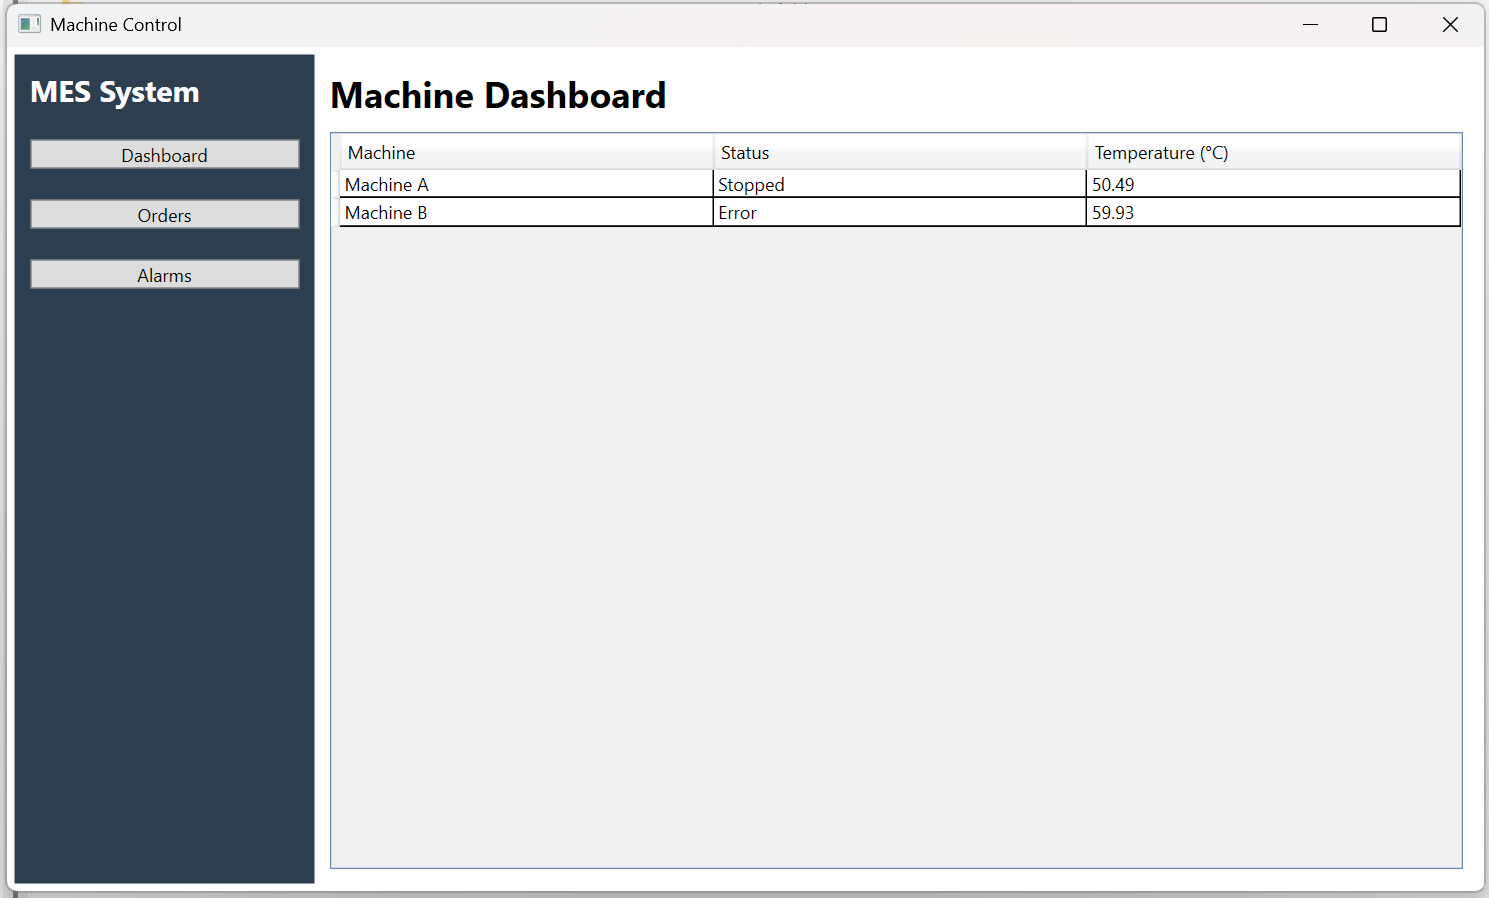
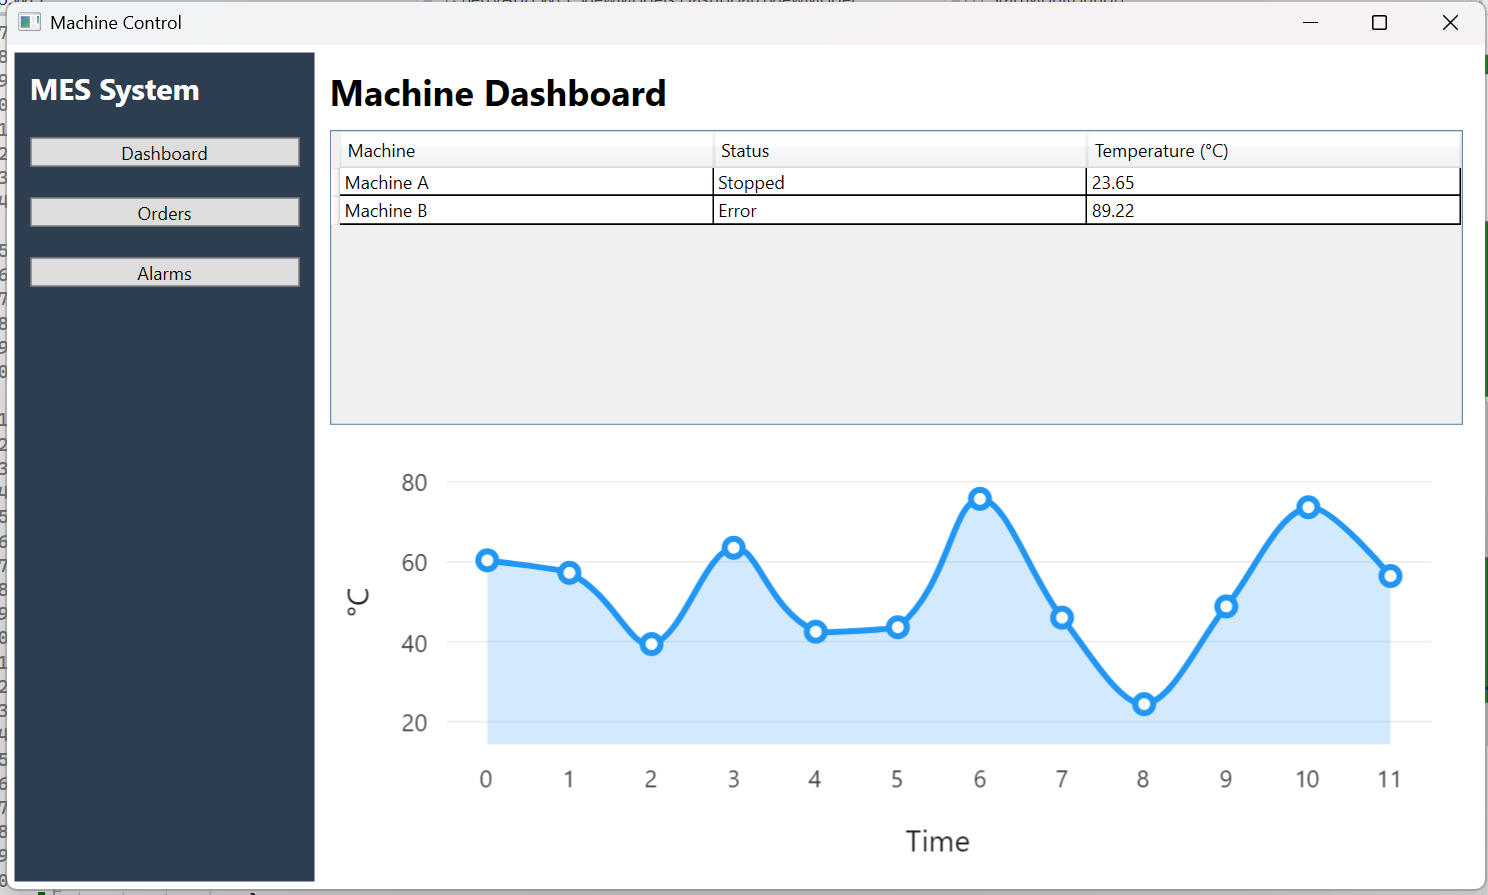
Add real-time chart to Dashboard page

diff --git a/BerryApp.WPF/Pages/DashboardView.xaml b/BerryApp.WPF/Pages/DashboardView.xaml
@@ -2,18 +2,21 @@
              xmlns="http://schemas.microsoft.com/winfx/2006/xaml/presentation"
              xmlns:x="http://schemas.microsoft.com/winfx/2006/xaml"
              xmlns:mc="http://schemas.openxmlformats.org/markup-compatibility/2006" 
-             xmlns:d="http://schemas.microsoft.com/expression/blend/2008" 
+             xmlns:d="http://schemas.microsoft.com/expression/blend/2008"  
+             xmlns:lvc="clr-namespace:LiveChartsCore.SkiaSharpView.WPF;assembly=LiveChartsCore.SkiaSharpView.WPF" 
              xmlns:local="clr-namespace:BerryApp.WPF.Pages"
              mc:Ignorable="d" 
              d:DesignHeight="450" d:DesignWidth="800">
     <Grid Margin="10">
         <Grid.RowDefinitions>
             <RowDefinition Height="Auto"></RowDefinition>
-            <RowDefinition></RowDefinition>
+            <RowDefinition Height="2*"></RowDefinition>
+            <RowDefinition Height="3*"></RowDefinition>
         </Grid.RowDefinitions>
 
         <TextBlock Text="Machine Dashboard" FontSize="24" FontWeight="Bold" Margin="0,0,0,10"></TextBlock>
 
+        <!-- Existing DataGrid -->
         <DataGrid Grid.Row="1" ItemsSource="{Binding Machines}" AutoGenerateColumns="False" IsReadOnly="True">
             <DataGrid.Columns>
                 <DataGridTextColumn Header="Machine" Binding="{Binding Name}" Width="*"></DataGridTextColumn>
@@ -24,5 +27,11 @@
                                     Width="*"/>
             </DataGrid.Columns>
         </DataGrid>
+        
+        <!-- Real-Time Chart -->
+        <lvc:CartesianChart Grid.Row="2"
+                        Series="{Binding TemperatureSeries}"
+                        XAxes="{Binding XAxes}"
+                        YAxes="{Binding YAxes}"/>
     </Grid>
 </UserControl>

diff --git a/BerryApp.WPF/ViewModels/DashboardViewModel.cs b/BerryApp.WPF/ViewModels/DashboardViewModel.cs
@@ -1,12 +1,17 @@
 using BerryApp.Domain.Entities;
 using BerryApp.Shared.Base;
 using BerryApp.Shared.Events;
+using LiveChartsCore.SkiaSharpView;
+using LiveChartsCore;
 using System;
 using System.Collections.Generic;
 using System.Collections.ObjectModel;
 using System.Linq;
 using System.Text;
 using System.Threading.Tasks;
+using Newtonsoft.Json.Linq;
+using LiveChartsCore.SkiaSharpView.Painting;
+using SkiaSharp;
 
 namespace BerryApp.WPF.ViewModels
 {
@@ -25,14 +30,59 @@ namespace BerryApp.WPF.ViewModels
             Machines.Add(new Machine { Id = Guid.NewGuid(), Name = "Machine A", Status = "Running" });
             Machines.Add(new Machine { Id = Guid.NewGuid(), Name = "Machine B", Status = "Stopped" });
 
-            StartMonitoring();
-        }
+            var seriesList = new List<ISeries>();
 
+            foreach (var machine in Machines)
+            {
+                var values = new List<double>();
+                _machineSeriesData[machine.Name] = values;
+
+                seriesList.Add(new LineSeries<double>
+                {
+                    Name = machine.Name,
+                    Values = values
+                });
+            }
+
+            TemperatureSeries = seriesList.ToArray();
+
+            XAxes = new Axis[]
+            {
+                new Axis
+                {
+                    Name = "Time"
+                }
+            };
+
+            YAxes = new Axis[]
+            {
+                new Axis
+                {
+                    Name = "°C",
+                    MinLimit = 0,
+                    MaxLimit = 100
+                }
+            };
+
+            StartMonitoring();
+
+        }
+        public ISeries[] TemperatureSeries { get; set; }
+        public Axis[] XAxes { get; set; }
+        public Axis[] YAxes { get; set; }
+
+        //private readonly List<double> _tempValues = new();
+        private readonly Dictionary<string, List<double>> _machineSeriesData = new Dictionary<string, List<double>>();
+        private int _timeIndex = 0;
+
+        private const double Threshold = 80;
         public async void StartMonitoring()
         {
             while (true)
             {
                 await Task.Delay(3000); // Simulate periodic updates
+
+                var seriesList = new List<ISeries>();
 
                 // Simulate machine status updates
                 foreach (var machine in Machines)
@@ -45,7 +95,47 @@ namespace BerryApp.WPF.ViewModels
                         // Publish an alert event if temperature exceeds threshold
                         _eventBus.Publish(new AlarmEvent { Message = $"{machine.Name} temperature is too high: {machine.Temperature:F1} °C" });
                     }
+
+                    // 🔥 update each machine series
+                    var list = _machineSeriesData[machine.Name];
+                    list.Add(machine.Temperature);
+
+                    if (list.Count > 20)
+                        list.RemoveAt(0);
+                     
+
+                    seriesList.Add(new LineSeries<double>
+                    {
+                        Name = machine.Name,
+                        Values = list,
+                        Stroke = machine.Temperature > Threshold ? new SolidColorPaint(SKColors.Red, 3) : new SolidColorPaint(SKColors.Green, 2), // 🔥 Highlight logic // new SolidColorPaint(SKColors.Red),
+                        GeometrySize = 1
+                    });
                 }
+
+                TemperatureSeries = seriesList.ToArray();
+
+                // 🔥 Add to chart
+                //var avgTemp = Machines.Average(m => m.Temperature);
+
+                //_tempValues.Add(avgTemp);
+                //_timeIndex++;
+
+                //// keep last 20 points
+                //if (_tempValues.Count > 20)
+                //    _tempValues.RemoveAt(0);
+
+                //TemperatureSeries = new ISeries[]
+                //{
+                //    new LineSeries<double>
+                //    {
+                //        Values = _tempValues,
+                //        Name = "Temperature"
+                //    }
+                //};
+
+                // 🔥 IMPORTANT: refresh chart
+                OnPropertyChanged(nameof(TemperatureSeries));
             }
         }
     }
